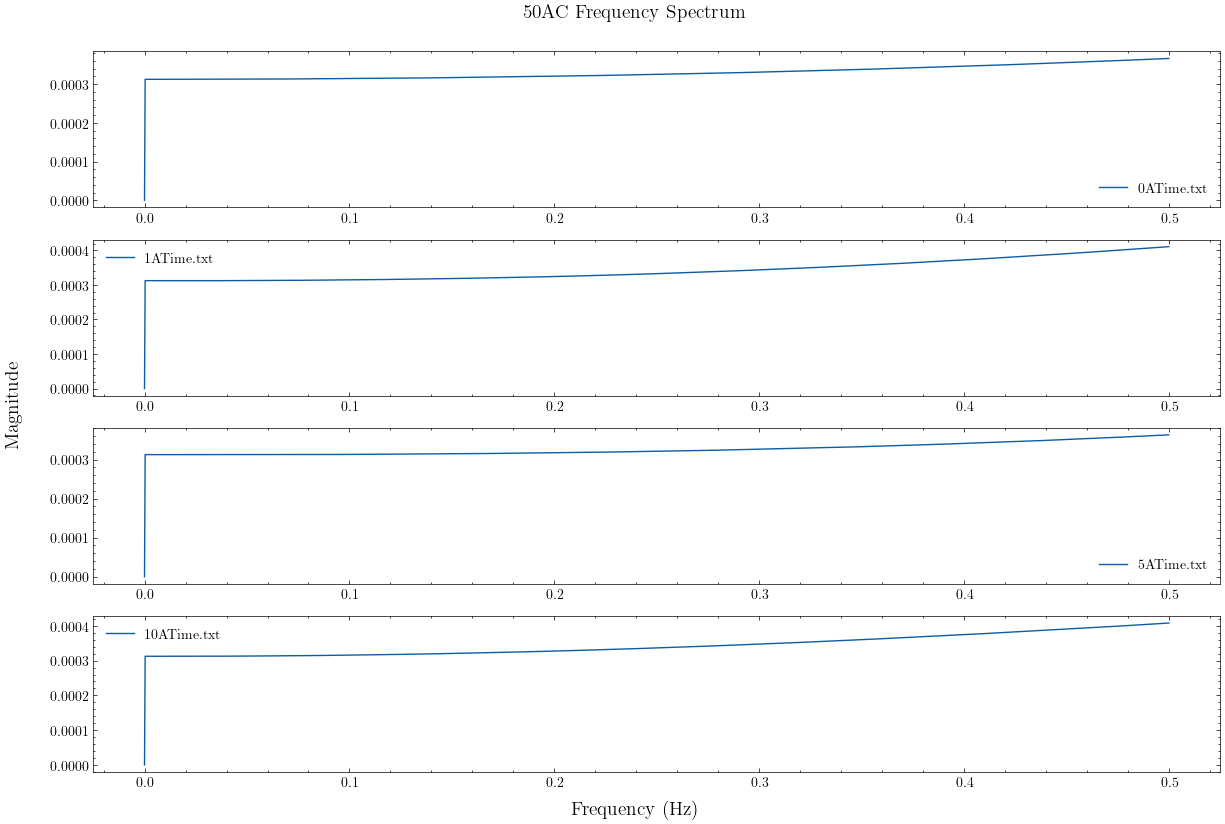
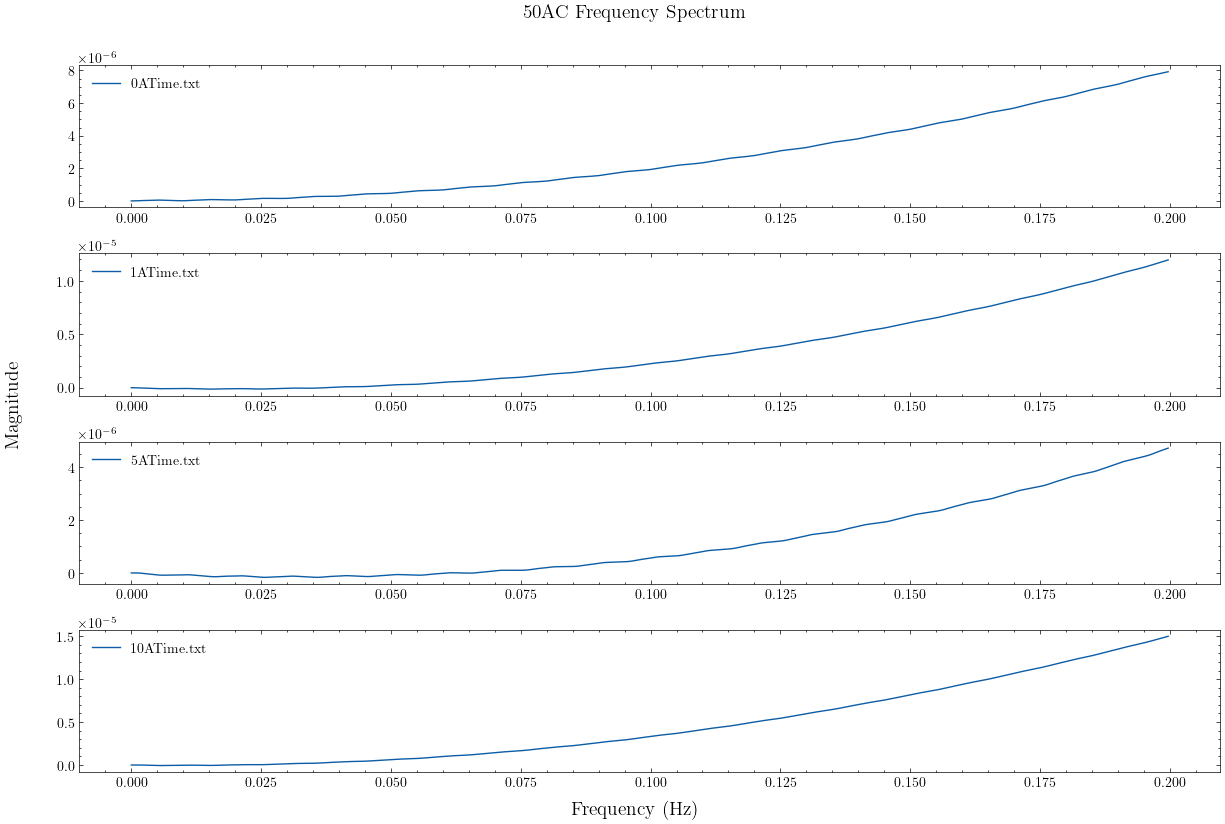
integration working but it's shit

diff --git a/ProcessData.py b/ProcessData.py
@@ -47,12 +47,12 @@ for subfolder in subfolderList:
 
 
         time = np.array(dataArray[2:,0],dtype= float)
-        index = np.where(time == 0.5)[0] #find index for 1 second
+        index = np.where(time == 0.2)[0] #find index for 1 second
 
         x = np.array(time[0:index[0]],dtype= float)
         y = np.array(dataArray[2:index[0]+2,1], dtype= float)
 
-        velocity_cumulative = integrate.cumulative_trapezoid(y, x,initial=2)
+        velocity_cumulative = integrate.cumulative_trapezoid(y, x,initial=0)
         displacement_cumulative = integrate.cumulative_trapezoid(velocity_cumulative,x,initial = 0)
 
         ax[n].plot(x,displacement_cumulative,label=filename.removesuffix("Freq.txt"))
